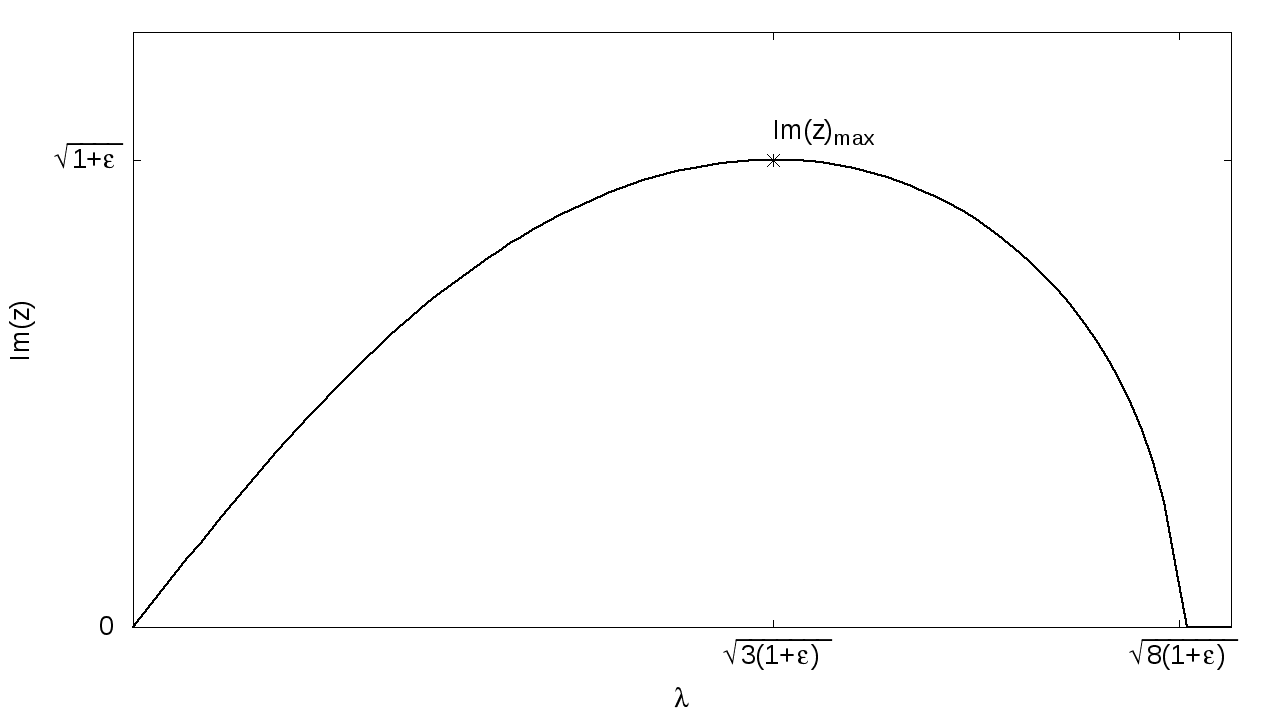
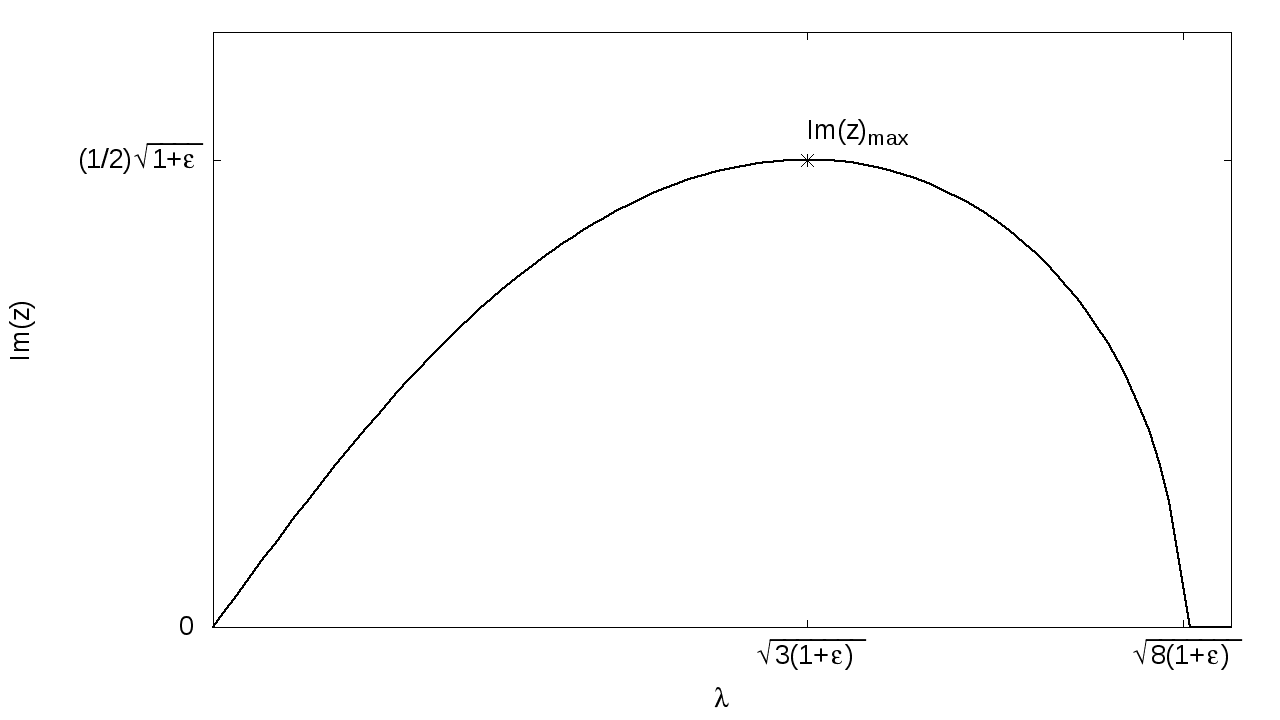
Added max values to figures

diff --git a/Capitulo2/cap2.tex b/Capitulo2/cap2.tex
@@ -174,7 +174,7 @@ z = \pm \sqrt{(\lambda^2 +1) - (4 \lambda ^2 + 1)^{1/2}}
 En donde como ya se había mencionado, lo que se busca es la raíz con la componente imaginaria positiva, por lo que se escoge el signo positivo en la ecuación \ref{eq:z_misma_omega}. La figura \ref{fig:misma_omega_tasa_de_crecimiento} muestra entonces la tasa de crecimiento de inestabilidad Im$z$ como función de $\lambda$.
 \begin{figure}
 \includegraphics[height=0.3\paperheight]{grafica_misma_omega_contrarias.png}
-\caption{Tasa de crecimiento para dos especies con misma $\omega_{p\sigma}^2$ pero con velocidades de signo contrario.}
+\caption{Tasa de crecimiento para dos especies con misma $\omega_{p\sigma}^2$ pero con velocidades de signo contrario. Donde $\operatorname{Im}(z)_{max}=1/2$}
 \label{fig:misma_omega_tasa_de_crecimiento}
 \end{figure}
 \section{Caso misma $\boldsymbol{\omega_{p\sigma}}$ con una especie incidente y la otra estacionaria.}
@@ -232,7 +232,7 @@ Y al resolver para $\lambda$ se obtiene
 Estos valores se pueden apreciar en la figura \ref{fig:misma_omega_tasa_de_crecimiento} que grafica la parte imaginaria de $z$, es decir la correspondiente al crecimiento de la inestabilidad, contra $\lambda$. 
 \begin{figure}[!h]
 \includegraphics[height=0.3\paperheight]{grafica_misma_omega_reposo.png}
-\caption{Tasa de crecimiento para dos especies con misma $\omega_{p\sigma}^2$ pero una de ellas estacionaria.}
+\caption{Tasa de crecimiento para dos especies con misma $\omega_{p\sigma}^2$ pero una de ellas estacionaria. Con $\operatorname{Im}(z)_{max}=1/2$}
 \label{fig:misma_omega_reposo}
 \end{figure}
 Ahora bien regresando a variables físicas se tiene que el umbral de insetabilidad ocurre cuando
@@ -360,7 +360,7 @@ z_{max} = \frac{1}{2}\left(\sqrt{3(1+\epsilon)} + i \sqrt{(1+\epsilon)} \right)
 La figura \ref{fig:d-d} muestra el comportamiento de la parte imaginaria de $z$ para el caso que se acaba de estudiar.
 \begin{figure}
 \includegraphics[height=0.3\paperheight]{grafica-d-d-reposo}
-\caption{$Im(z)$ en función de $\lambda$, con $\epsilon = 2.72 \times 10^{-4}$ para el caso de un haz de deuterio-electrén incidiendo con un plasma estacionario deuterio-electrón.}
+\caption{$Im(z)$ en función de $\lambda$, para el caso de un haz de dos especies incidiendo con un plasma estacionario de dos especies. Con $\operatorname{Im}(z)_{max}=\frac{1}{2}\sqrt{(1+\epsilon)}$}
 \label{fig:d-d}
 \end{figure}
 \section{Caso para iones estacionarios y electrones incidentes}
@@ -448,12 +448,66 @@ Para el caso electrostático de un plasma en tres dimensiones la ecuación de Vl
 \end{equation}
 Sería entonces lógico pensar que para estudiar las ondas desde el punto de vista de Vlasov basta con realizar un proceso de linealización para obtener la relación de dispersión del plasma. Sin embargo resulta que el método de Fourier arroja una singularidad en el integrando, de la misma manera en la que aparece una singularidad al insertar una función de distribución en la relación de dispersión.\\
 %%%%%Poner fallo de Fourier%%%%%%%
-\subsection*{Fallo Fourier}
+\subsection*{Fallo de Fourier}
 Para ilustar como falla el análisis de Fourier para tratar al problema desde el punto de vista de Vlasov se tomará el caso de un plasma sin magnetizar en equilibrio estacionario y con comportamiento Maxwelliano. Donde también se asumirá que los iones no se mueven, esto es $m_i \to \infty$, y que la densidad de los iones es igual a la densidad de los electrones en equlibrio $n_e =n_i$. El campo electrostático es entonces cero en el equlibrio debido a que hay neutralidad de carga en el equlibrio. Además como los iones son imóviles, todo el estudio de la dinámica será de los electrones.Falta entonces plantear al problema de tal manera que este bien definido y tenga relevancia física. Para ello se asume la distribución en equilibrio de velocidades de los electrones como una distribución Maxwelliana.
 \begin{equation}
+\label{eq:fourier_distribucion_maxwelliana}
 f_0(u)=n_0\frac{1}{\pi^{1/2}V_T}e^{-u^2/V_T^2}
 \end{equation}
-
+Donde $V_T^2=2k_BT/m$. Y si además se tiene $E=- \partial \Phi/\partial x$ la ecuación linealizada de Vlasov en una dimensión es de la forma:
+\begin{equation}
+\label{eq:vlasov_1D_linealizada}
+\frac{\partial f_1}{\partial t}+u\frac{\partial f_1}{\partial x}-\frac{q}{m}\frac{\partial \Phi _1}{\partial x}\frac{\partial f_0}{\partial u}=0
+\end{equation}
+Como Vlasov describe la evolución en el espacio fase $u$ es una variable independiente y por lo tanto si se asume que la dependencia espacial tiene la forma de un modo normal $\sim exp(ikx-i\omega t)$ la ecuación \ref{eq:vlasov_1D_linealizada} queda entonces
+\begin{equation}
+-i(\omega-ku)f_1- ik\Phi _1 \frac{q}{m}\frac{\partial f_0}{\partial u}=0
+\end{equation}
+Despejando $f_1$
+\begin{equation}
+f_1 =-\frac{k}{(\omega -ku)}\frac{q}{m}\frac{\partial f_0}{\partial u}\Phi_1
+\end{equation}
+Se tiene tambien quela densidad de los electrones perturbados es
+\begin{equation}
+\label{eq:densidad_electrones_perturbados}
+n_1 = \int^{\infty}_{-\infty} f_1 du=-\frac{q}{m}\Phi_1 \int^{\infty}_{-\infty}\frac{k}{(\omega-ku)}\frac{\partial f_0}{\partial u}du
+\end{equation}
+La ecuación \ref{eq:densidad_electrones_perturbados} proveé una relación entre $n_1$ y $\Phi _1$. Otra relación entre esos dos términos es dada por la ecuación de Poisson, que linealizada en este caso es
+\begin{equation}
+\frac{\partial ^2 \Phi _1}{\partial x^2}=-\frac{n_1 q}{\epsilon _0}
+\end{equation}
+Que al realizar una transformación de Fourier en el espacio resulta en
+\begin{equation}
+k^2\Phi_1 = \frac{n_1 q}{\epsilon_0}
+\end{equation}
+Que al despejar $\Phi_1$ y sustituyendo en la ecuación \ref{eq:densidad_electrones_perturbados} se obtiene
+\begin{equation}
+1= - \frac{q^2}{k^2 m \epsilon_0}\int^{\infty}_{-\infty} \frac{k}{(\omega -ku)}\frac{\partial f_0}{\partial u}du
+\end{equation}
+Que da la relación de dispersión
+\begin{equation}
+\label{eq:fourier_dispersion_sin_normalizar}
+1 + \frac{q^2}{k^2 m \epsilon_0}\int^{\infty}_{-\infty} \frac{k}{(\omega -ku)}\frac{\partial f_0}{\partial u}du=0
+\end{equation}
+Ahora bien, sustituyendo la ecuación \ref{eq:fourier_distribucion_maxwelliana} en \ref{eq:fourier_dispersion_sin_normalizar} y definiendo las cantidades adimensionales $\xi = u/V_T$ y $\alpha= \omega / k V_T$ resulta en la expresión
+\begin{equation}
+1+\frac{1}{2k^2}\frac{q^2n_0}{\epsilon_0 k_BT}\frac{1}{\pi ^{1/2}}\int^{\infty}_{-\infty}\frac{1}{(\alpha -\xi)}\frac{\partial}{\partial \xi}e^{-\xi ^2}du=0
+\end{equation}
+La cual también se puede reescribir como 
+\begin{equation}
+1 - \frac{1}{2k^2 \lambda _D^2}\frac{1}{\pi ^{1/2}}\int^{\infty}_{-\infty}\frac{1}{(\xi -\alpha)}\frac{\partial}{\partial \xi}e^{-\xi ^2}d\xi=0
+\end{equation}
+Que vendría siendo una expresión de la forma:
+\begin{equation}
+1 + \chi =0
+\end{equation}
+Por lo que se podría expresar la susceptibilidad de los electrones como:
+\begin{equation}
+\label{eq:susceptibilidad_Vlasov_fourier}
+\chi_e = -\frac{1}{2k^2 \lambda _D^2}\frac{1}{\pi ^{1/2}}\int^{\infty}_{-\infty}\frac{1}{(\xi -\alpha)}\frac{\partial}{\partial \xi}e^{-\xi ^2}d\xi
+\end{equation}
+A diferencia del tratamiento de fluidos en donde se partían  de las ecuaciones de continuidad, de movimiento y de estado, que no son otra cosa que los momentos de la ecuación de Vlasov, aquí se tiene que solo la ecuación de Vlasov está involucrada. Con esto se puede inferir que Vlasov contiene ya toda la información de esas ecuaciones. Sería lógico pensar que este método es un método más simple y directo para encontrar las suscepibilidades que el tratamiento de fluidos. Sin embargo, de este surge una dificultad matemática.\\
+Dicha dificultad se presenta debido a que el denominador del integrando de la ecuación \ref{eq:susceptibilidad_Vlasov_fourier} que define a la susceptibilidad se desvanece cuando $\xi=\alpha$, es decir cuando $\omega = kV_T$. Debido a que no hay manera clara de como lidiar con esa singularidad, la integral sobre $\xi$ no puede ser evaluada y el método de Fourier falla.
 \subsection*{Método de Landau}
 Para lidiar con esa singularidad se hace uso de la transformada de Laplace, cuyos detalles se pueden revisar en el apéndice \notinsubfile{\ref{Ap:Laplace}}.\\
 Con el fin de tener una imagen clara se asume el caso de ondas electrostáticas en un plasma en tres dimensiones, estacionario en el equilibrio, neutral, sin magnetizar, espacialmente uniforme y en donde los iones pueden moverse.\\
@@ -549,11 +603,11 @@ En el caso general donde $N(p)/D(p)$ tenga varios polos en la parte izquierda de
 Queda entonces la incognita del origen de estos polos, para la cual se tienen dos posibiliades: $N(p)$ tiene un polo explícito esto es que tenga un término $\sim 1 /(p-p_j)$ o bién $D(p)$ contiene un factor $\sim (p-p_j)$ es decir $p_j$ es un cero de $D(p)$.\\
 Se podría asumir que el polo de $N(p)$ es el que esta contenido en el integrando pero este polo se utiliza como residuo al momento de integrar por lo que no contribuye. Por otro lado, la integral sobre $v_{\parallel}$ de $F_{\sigma 1}(u_{\parallel},0)$ es finita y por lo tanto tampoco contribuye. Lo anterior deja claro que los polos se encuentran en los ceros de $D(p)$.\\
 Con el fin de deja más clara la física detrás de esto se puede realizar una simplificación más. Esto es tomar el problema solamente para el comportamiento asintótico de tiempos largos donde  el polo $p_j$ ubicado más hacia la derecha domina sobre las contribuciones de los otros polos, por lo cuál lo único que se requiere es encontrar la raíz $p_j$ que tenga la parte real más grande. Y como se había mencionado antes tal raíz será un cero de la ecuación \ref{eq:cont_analitica_D(p)}.\\
-Si se observa además que las cantidades que se están sumando en la ecuación \ref{eq:cont_analitica_D(p)} son en escencia las perturbaciones de los iones y electrones asociadas con la oscilación. Por lo que se puede escribir:
+Si se observa además que las cantidades que se están sumando en la ecuación \ref{eq:cont_analitica_D(p)} son en escencia las perturbaciones de los iones y electrones asociadas con la oscilación se puede escribir entonces
 \begin{equation}
 D(p)=1 + \sum_{\sigma}\chi_{\sigma}=0
 \end{equation}
-en el caso particular donde la función de distribuciónen equilibrio es Maxwelliana, las suceptibilidades se pueden escribir como:
+Esto también resulta evidente si se compara la ecuación \ref{eq:cont_analitica_D(p)} con la ecuación \ref{eq:susceptibilidad_Vlasov_fourier} que se había obtenido antes para expresar susceptibilidades. Con esto, se hace uso de que la función de distribución en equilibrio es Maxwelliana y entonces se expresan a las susceptibilidades como:
 \begin{multline}
 \chi_{\sigma} = -\frac{1}{2k^2 \lambda ^2_{D\sigma}}\frac{1}{\pi^{1/2}}\int ^{\infty}_{-\infty}\frac{1}{(\xi - ip/kV_{T\sigma})}\frac{\partial}{\partial \xi}exp(-\xi ^2)d\xi\\
 = \frac{1}{k^2 \lambda ^2_{D\sigma}}\left[ \frac{1}{\pi ^{1/2}}\int ^{\infty}_{-\infty} \frac{(\xi - ip/kV_{T\sigma}+ ip/kV_{T\sigma})}{(\xi - ip/kV_{T\sigma})}exp(-\xi ^2)d\xi\right]\\
